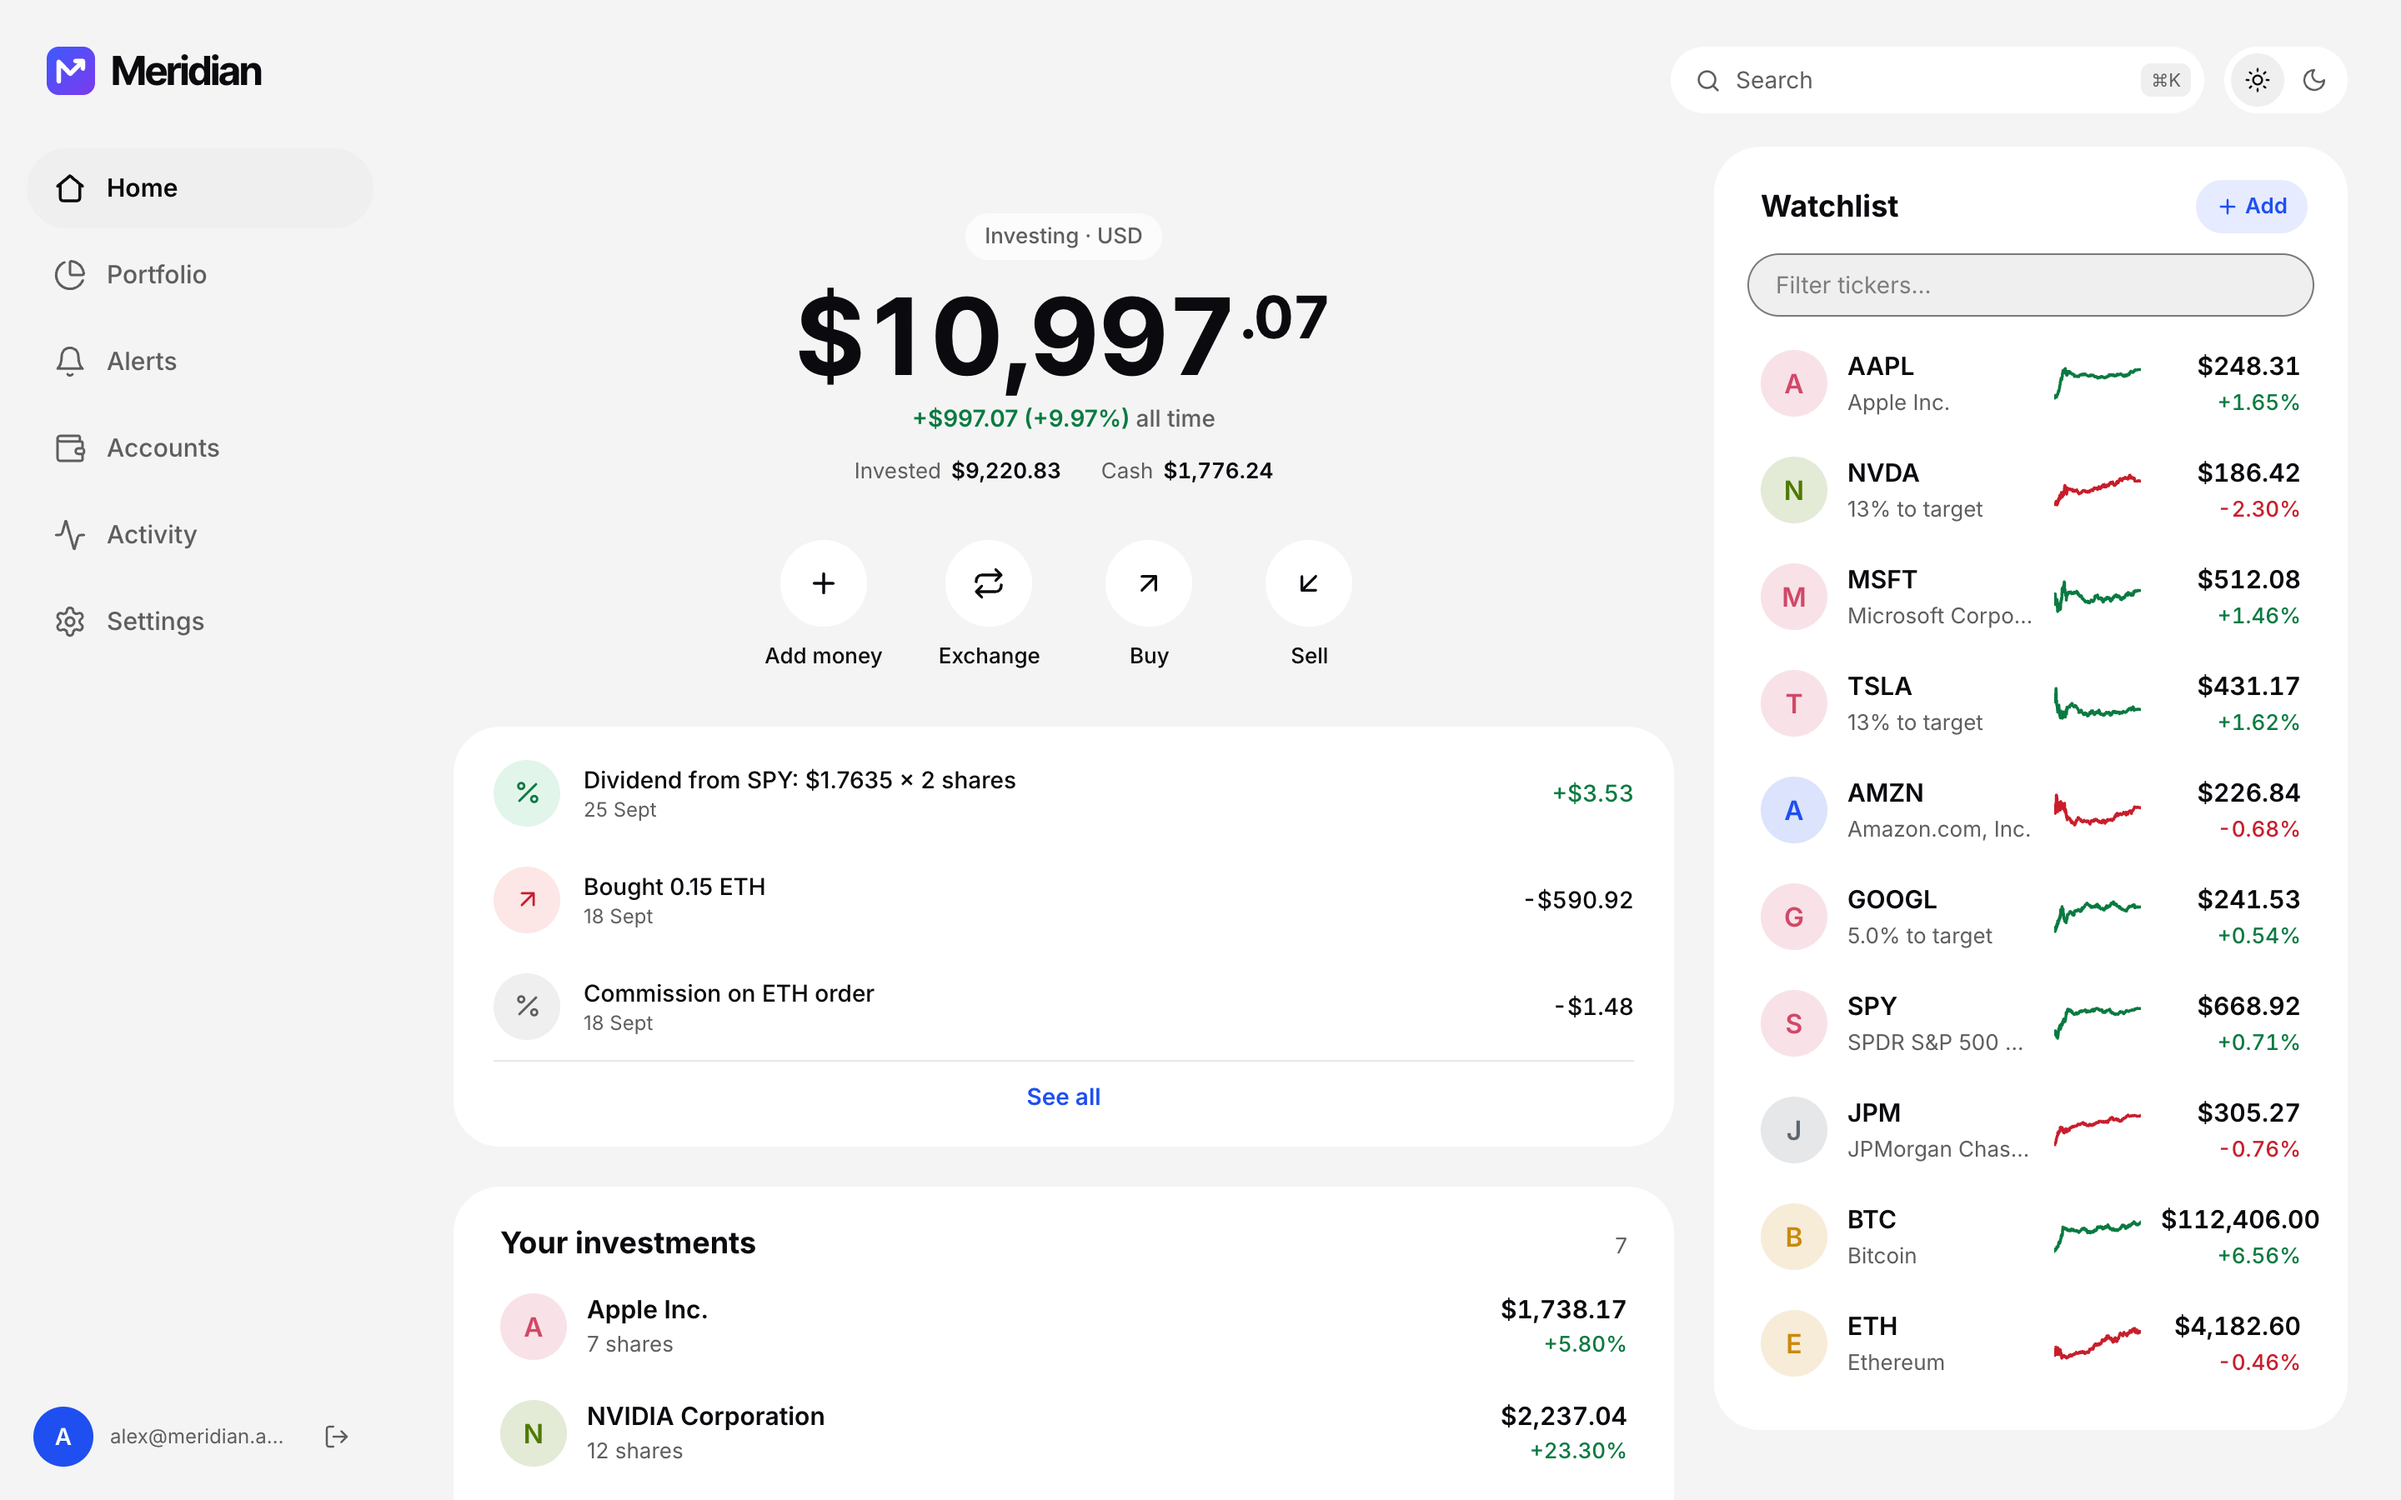
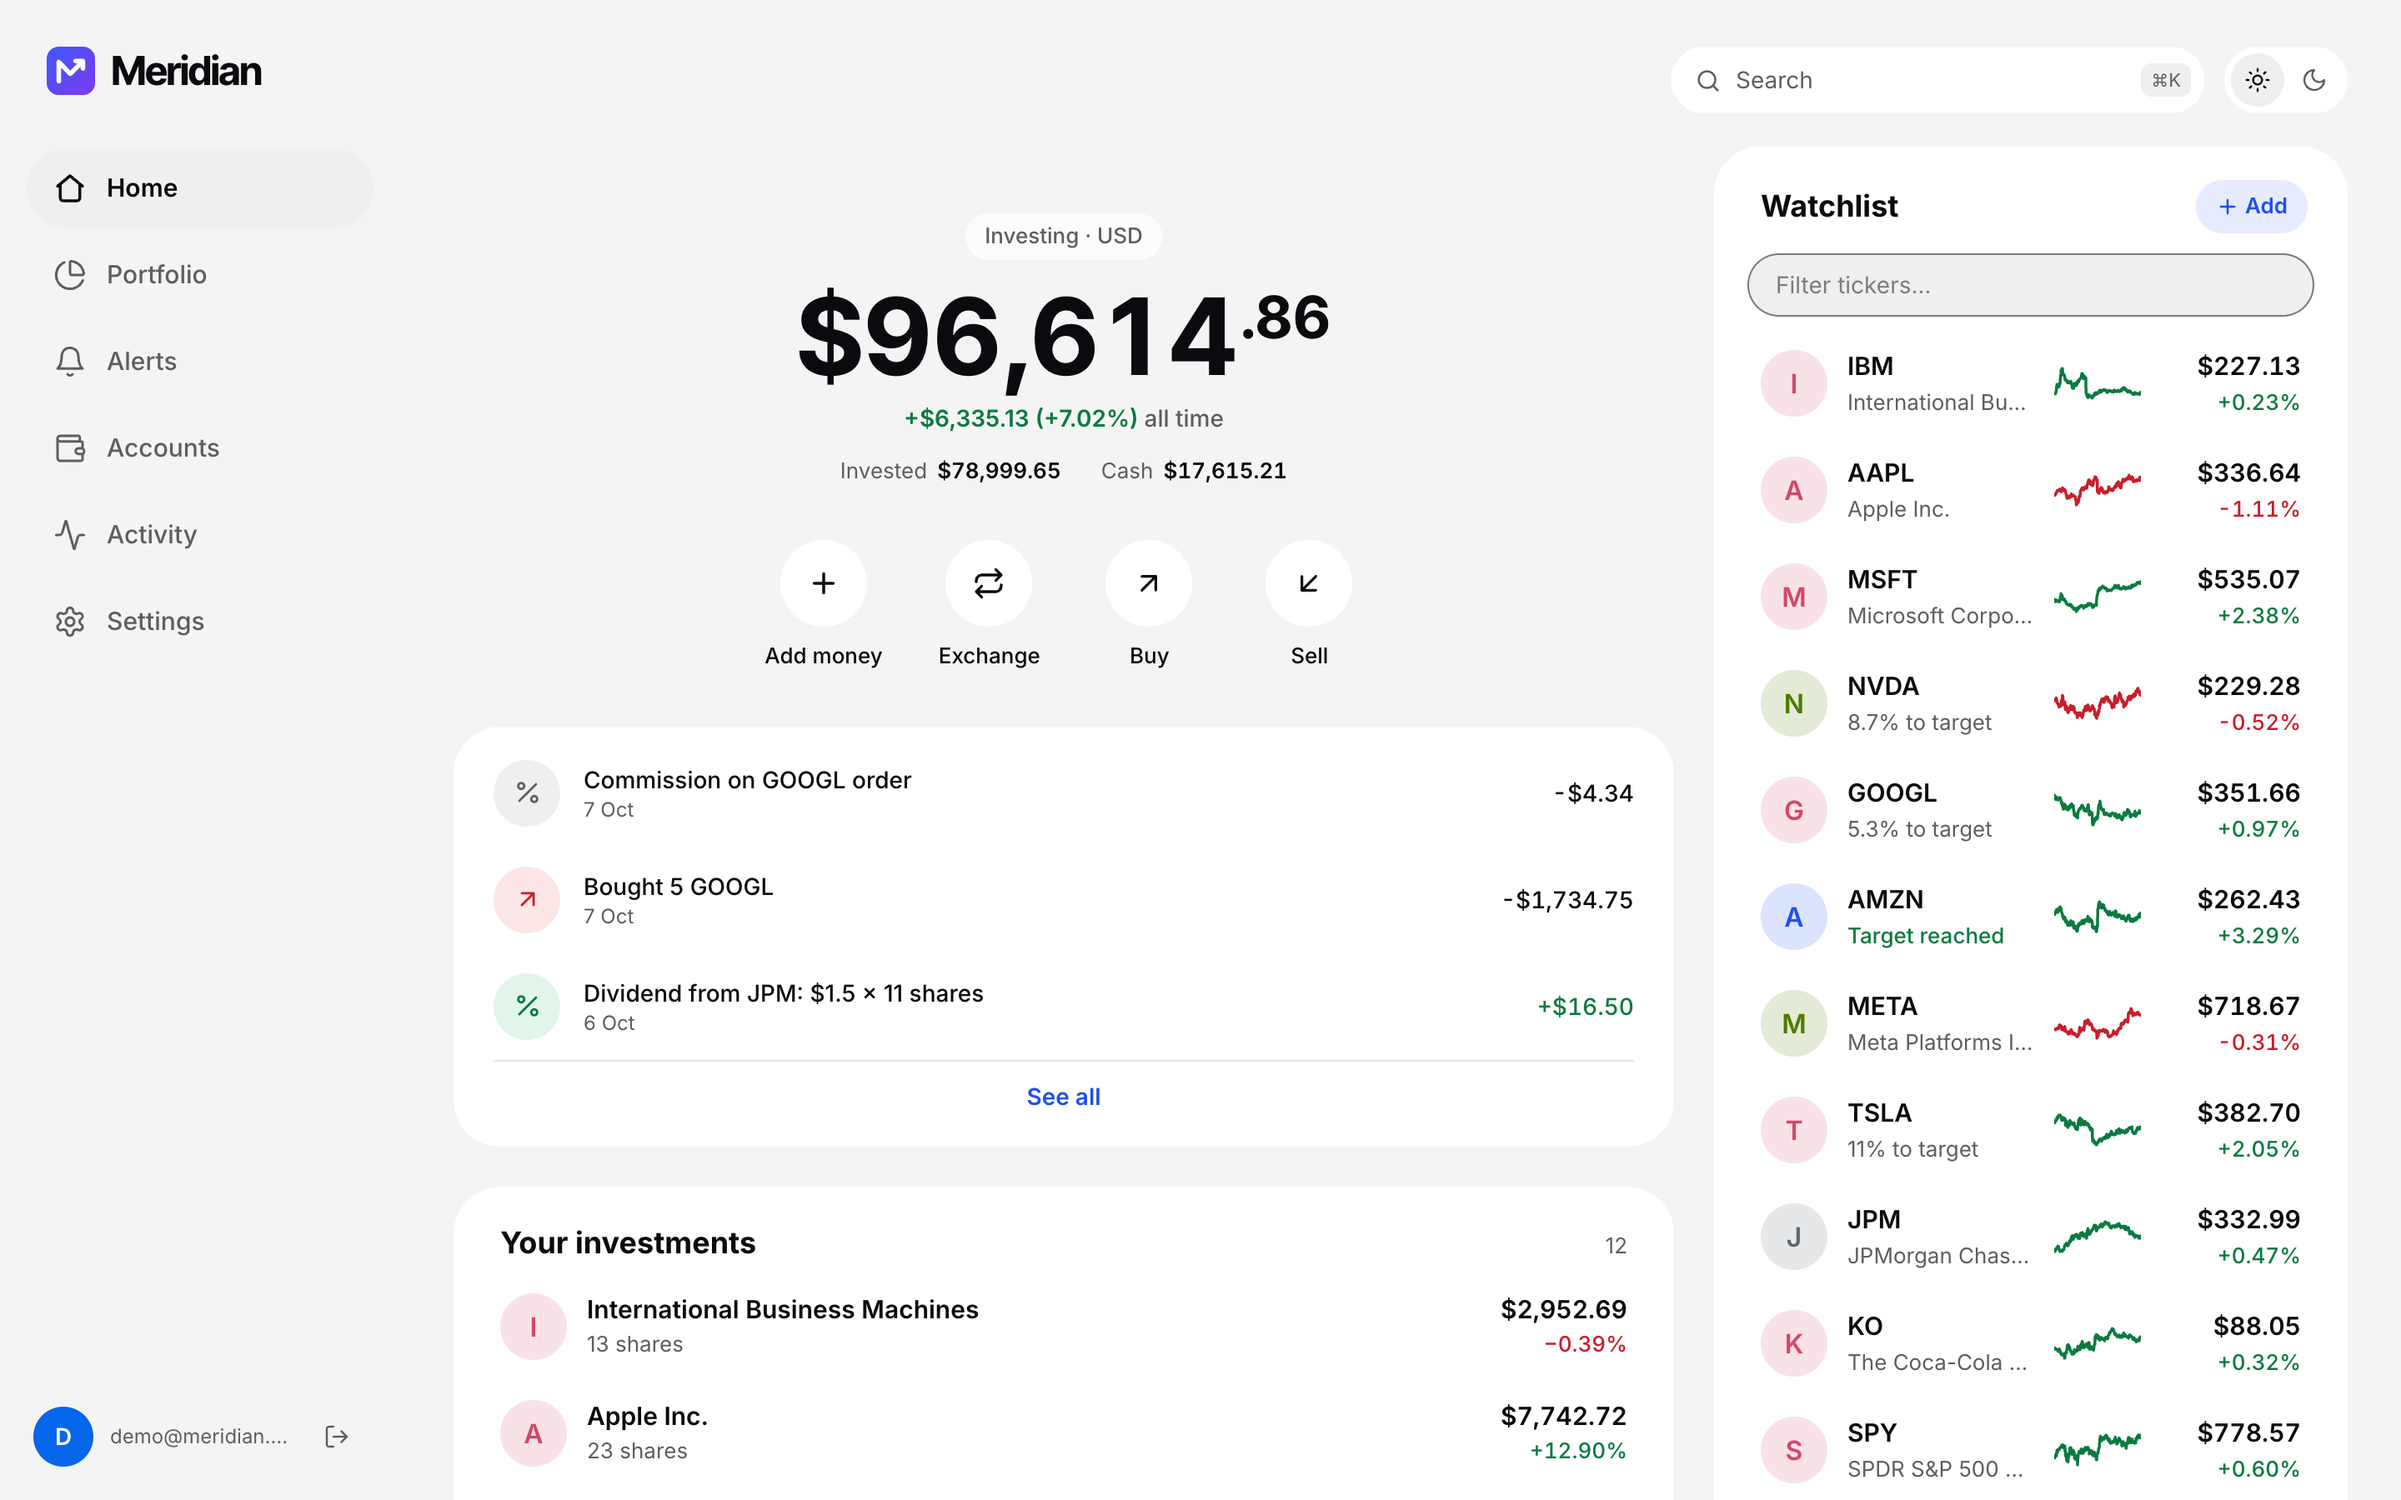
v1.0.0: the project is finished. README with status, every screen in dark and light, and what comes next

diff --git a/README.md b/README.md
@@ -1,5 +1,5 @@
 <p align="center">
-  <img src="docs/screenshots/hero.png" alt="Meridian on desktop and phone: the Home screen with a $10,997.07 balance up 9.97% all time, recent activity and a watchlist with sparklines, and Apple's stock page on a phone" width="100%" />
+  <img src="docs/screenshots/hero.png" alt="Meridian in dark and light: the Home screen with a $96,614 balance up 7.02% all time and a watchlist with sparklines, NVIDIA's stock page on a phone, the Portfolio page with holdings, and the trade sheet buying NVIDIA" width="100%" />
 </p>
 
 <h1 align="center">Meridian: practise investing without risking a penny</h1>
@@ -11,6 +11,7 @@
 </p>
 
 <p align="center">
+  <a href="https://github.com/samaunmahmud/Meridian/releases/tag/v1.0.0"><img src="https://img.shields.io/badge/status-complete_·_v1.0.0-0666eb?style=flat-square" alt="Status: complete, v1.0.0" /></a>
   <a href="https://github.com/samaunmahmud/Meridian/actions/workflows/ci.yml"><img src="https://github.com/samaunmahmud/Meridian/actions/workflows/ci.yml/badge.svg" alt="CI" /></a>
 </p>
 
@@ -28,6 +29,9 @@
 > [!WARNING]
 > **Simulated money only. Not financial advice.** Deposits are fake and there is no connection to a real broker or payment provider. Prices come from free market data plans and may be delayed.
 
+> [!NOTE]
+> **This project is finished.** Meridian reached v1.0.0 in October 2026 and is no longer in active development. Everything described here works and is tested; see [Project status](#project-status) for what was built and where it could go next.
+
 ---
 
 ## Contents
@@ -36,6 +40,7 @@
 - [What Meridian does](#what-meridian-does)
 - [Results in numbers](#results-in-numbers)
 - [Features](#features)
+- [Screenshots](#screenshots)
 - [How it works](#how-it-works)
 - [Getting the money right](#getting-the-money-right)
 - [Security](#security)
@@ -48,6 +53,7 @@
 - [Project structure](#project-structure)
 - [Design decisions](#design-decisions)
 - [Limitations](#limitations)
+- [Project status](#project-status)
 
 ---
 
@@ -81,7 +87,7 @@ Sign up and you get a virtual account. From there:
 | **WebSocket fan-out** | a price update reaches **1,000 connected clients in about 20 ms** |
 | **Database outage** | `/api/health` answers 503 within 5 s; everything works again **2–4 s after MySQL returns**, with nobody signed out |
 | **History clean-up** | 300,000 one-minute prices (208 days) shrank to **about 12,000 rows in 12 s**, with no visible change to any chart |
-| **Tests** | **307 backend (JUnit) + 200 frontend (Vitest)**, including real-MySQL concurrency tests and accessibility checks, run by CI on every push |
+| **Tests** | **316 backend (JUnit) + 210 frontend (Vitest)**, including real-MySQL concurrency tests and accessibility checks, run by CI on every push |
 
 The load numbers come from one 8-core Mac running the load generator, the backend and MySQL together, so treat them as a floor, not production sizing. The scripts and method are in [`scripts/load-test`](scripts/load-test/README.md).
 
@@ -90,7 +96,7 @@ The load numbers come from one 8-core Mac running the load generator, the backen
 | | |
 |---|---|
 | 📈 **Stocks and crypto** | Search any ticker, add it to your watchlist, and see live prices, today's change and a sparkline for each. |
-| 🧾 **Real order types** | Market, limit, stop-loss and trailing stop (the stop follows the price up by a set percentage). Pending orders can be edited or cancelled, and each order can carry a note. |
+| 🧾 **Real order types** | Market, limit, stop-loss and trailing stop (the stop follows the price up by a set percentage). Pending orders can be edited or cancelled, and each order can carry a note. Order history reads like a bank statement, grouped by Today, Yesterday and date. |
 | 🔁 **Recurring buys** | Buy a fixed amount daily, weekly or monthly. A buy that falls due while the market is closed waits for the open. |
 | 🕰 **Exchange hours** | 09:30–16:00 New York time, early closes and holidays worked out by rule for any year. A market order placed while the market is closed is queued and fills at the open. Crypto never closes. |
 | 💱 **Three currencies** | USD, EUR and GBP wallets. Pay for any order from any wallet; a pending limit buy reserves its money and commission. |
@@ -103,34 +109,43 @@ The load numbers come from one 8-core Mac running the load generator, the backen
 | 📰 **Company news** | Newest first on every stock page, with the source, age and (on Alpha Vantage) a bullish or bearish rating. |
 | ⌨ **Search from anywhere** | <kbd>⌘K</kbd> / <kbd>Ctrl K</kbd> or <kbd>/</kbd> jumps to any stock, page or action. |
 | 🔐 **Account** | Sign-up with email verification, password reset, change password (signs out other devices), CSV export of orders and activity, and account deletion. |
-| 🌗 **Light and dark, phone and desktop** | A banking-app style interface that follows your device, installable on a phone's home screen. |
+| 🌗 **Light and dark, phone and desktop** | A Revolut-style interface that follows your device: high-contrast dark mode, tappable stock and wallet pickers, a large amount with a price / fee / total summary when trading, and installable on a phone's home screen. Every colour is tested against WCAG contrast in both themes. |
 
-<details>
-<summary><b>More screens:</b> Home in both themes, a stock's page with your notes and its news, you vs the market, target allocation and the phone layout</summary>
 
-<br>
+## Screenshots
 
-![You vs the market: the portfolio's time-weighted return (+9.29%) against SPY (+7.17%) over a month, and the target allocation card listing the trades that bring each holding back to its target (dark theme)](docs/screenshots/insights-dark.png)
+Every screen comes in both themes; the app follows your device's setting, and the sun / moon switch overrides it. All of them show a seeded demo account with months of trading history.
 
-| Home | A stock's page |
+| Dark | Light |
 | :---: | :---: |
-| ![Home, dark theme: balance, recent activity including a dividend, and the watchlist](docs/screenshots/home-dark.png) | ![NVIDIA's page: price chart, key stats and the trade form](docs/screenshots/stock-dark.png) |
-| **Home, light theme** | **Portfolio** |
-| ![Home, light theme](docs/screenshots/home-light.png) | ![Portfolio: total value over the past month, holdings with profit and loss, and the trade form](docs/screenshots/portfolio-light.png) |
+| **Home** | |
+| ![Home, dark theme: Balance, quick actions, recent activity, your investments and the watchlist with sparklines](docs/screenshots/home-dark.png) | ![Home, light theme](docs/screenshots/home-light.png) |
+| **A stock's page** | |
+| ![A stock's page, dark theme: Price chart, key stats and the trade form, with the stock and wallet as tappable rows](docs/screenshots/stock-dark.png) | ![A stock's page, light theme](docs/screenshots/stock-light.png) |
+| **Portfolio** | |
+| ![Portfolio, dark theme: Total value over the past month, holdings with profit and loss, and the trade form](docs/screenshots/portfolio-dark.png) | ![Portfolio, light theme](docs/screenshots/portfolio-light.png) |
+| **You vs the market and target allocation** | |
+| ![You vs the market and target allocation, dark theme: Time-weighted return against SPY, and the trades that bring each holding back to its target](docs/screenshots/insights-dark.png) | ![You vs the market and target allocation, light theme](docs/screenshots/insights-light.png) |
+| **Order history** | |
+| ![Order history, dark theme: Grouped by day like a bank statement: what each order cost or paid, its fee, status, note and profit](docs/screenshots/orders-dark.png) | ![Order history, light theme](docs/screenshots/orders-light.png) |
+| **The whole stock page** | |
+| ![The whole stock page, dark theme: Your position, open orders, notes and target price, dividends and company news](docs/screenshots/stock-full-dark.png) | ![The whole stock page, light theme](docs/screenshots/stock-full-light.png) |
 
-![A stock's full page: your position and open trailing stop, your note and target price with a one-click alert, and company news rated bullish, neutral or bearish (light theme)](docs/screenshots/stock-notes-news-light.png)
+### On a phone
 
-<p align="center">
-  <img src="docs/screenshots/phone-home-dark.png" width="200" alt="Home on a phone, dark theme" />
-  &nbsp;
-  <img src="docs/screenshots/phone-stock-light.png" width="200" alt="Apple's stock page on a phone, with Buy and Sell at the bottom" />
-  &nbsp;
-  <img src="docs/screenshots/phone-buy-light.png" width="200" alt="Buying from the trade sheet on a phone" />
-  &nbsp;
-  <img src="docs/screenshots/phone-portfolio-dark.png" width="200" alt="The portfolio on a phone, dark theme" />
+<p align="center"><b>Dark</b><br>
+  <img src="docs/screenshots/phone-home-dark.png" width="190" alt="Home on a phone, dark theme" />
+  <img src="docs/screenshots/phone-stock-dark.png" width="190" alt="NVIDIA's page on a phone, dark theme" />
+  <img src="docs/screenshots/phone-buy-dark.png" width="190" alt="Trade sheet on a phone, dark theme" />
+  <img src="docs/screenshots/phone-portfolio-dark.png" width="190" alt="Portfolio on a phone, dark theme" />
 </p>
 
-</details>
+<p align="center"><b>Light</b><br>
+  <img src="docs/screenshots/phone-home-light.png" width="190" alt="Home on a phone, light theme" />
+  <img src="docs/screenshots/phone-stock-light.png" width="190" alt="NVIDIA's page on a phone, light theme" />
+  <img src="docs/screenshots/phone-buy-light.png" width="190" alt="Trade sheet on a phone, light theme" />
+  <img src="docs/screenshots/phone-portfolio-light.png" width="190" alt="Portfolio on a phone, light theme" />
+</p>
 
 ## How it works
 
@@ -412,7 +427,7 @@ meridian-backend/src/main/java/com/meridian/backend/
 meridian-backend/src/main/resources/db/migration/   Flyway schema, V1–V13
 
 meridian-frontend/src/
-├── components/   Home, StockPage, Portfolio, trade sheet, charts, modals, command palette
+├── components/   Home, StockPage, Portfolio, trade sheet, pickers, charts, modals, command palette
 ├── lib/          API client, formatting, CSV export, target distance, contrast checks
 └── index.css     colour tokens for both themes
 
@@ -444,6 +459,38 @@ Add a new file `meridian-backend/src/main/resources/db/migration/V<n>__descripti
 - There is no monitoring or alerting beyond `/api/health` (its `priceFeed` field is what to alert on). The interface has been checked with automated tools and by keyboard, but not with a real screen reader.
 - Load numbers come from one laptop. WebSocket sessions live in the memory of one backend, so running several backends behind a load balancer would need shared messaging first.
 - Prices come from a single provider at a time (see "When the database or the price provider is down" for what happens when it fails).
+
+## Project status
+
+**Complete, v1.0.0 (October 2026).** Meridian was built from 18 September to 11 October 2026 and is now finished. The code stays here as a working, documented reference; no new features are planned.
+
+### What v1.0.0 contains
+
+- **A broker-grade order engine:** market, limit, stop-loss and trailing-stop orders, queued orders for a closed market, recurring buys, and edits as one cancel-and-replace transaction.
+- **Money that adds up:** row locks on every money path, reservations for pending orders, invariant checks after load tests and real-MySQL concurrency tests in CI.
+- **Three currencies and dividends:** USD, EUR and GBP wallets at ECB rates (Frankfurter) or Alpha Vantage, and dividends paid to whoever held the stock on the ex-date.
+- **Honest performance:** time-weighted return against any ticker, and value changes that leave out money you put in.
+- **Live everything:** prices, fills, alerts and dividends over WebSocket, with near-live quotes from Finnhub.
+- **A Revolut-style interface:** dark and light themes tested for contrast, a phone layout with a trade sheet, and day-grouped history.
+- **Ready to run:** Docker Compose with nginx, health checks, backups and restore, nightly history thinning and CI on every push.
+
+### By the numbers
+
+| | |
+|---|---|
+| Built | 18 Sep – 11 Oct 2026 |
+| Backend | about 10,000 lines of Java, 13 Flyway migrations |
+| Frontend | about 7,200 lines of React, 49 components |
+| Tests | 316 backend + 210 frontend, plus load and consistency scripts |
+
+### If it is picked up again
+
+The natural next steps, roughly in order:
+
+1. **Shared messaging for WebSockets** (Redis or a broker), so several backends can run behind a load balancer.
+2. **A second price provider as a fallback**, so an outage of one doesn't stall market orders.
+3. **Monitoring and alerting** on `/api/health`'s `priceFeed`, and a screen-reader pass on the interface.
+4. **Dividend reinvestment and more asset types** (ETFs are already tradable; options and bonds are not).
 
 <p align="center">
   Built by <a href="https://github.com/samaunmahmud">Samaun Mahmud</a> · Computer Science (AI), Brunel University London
